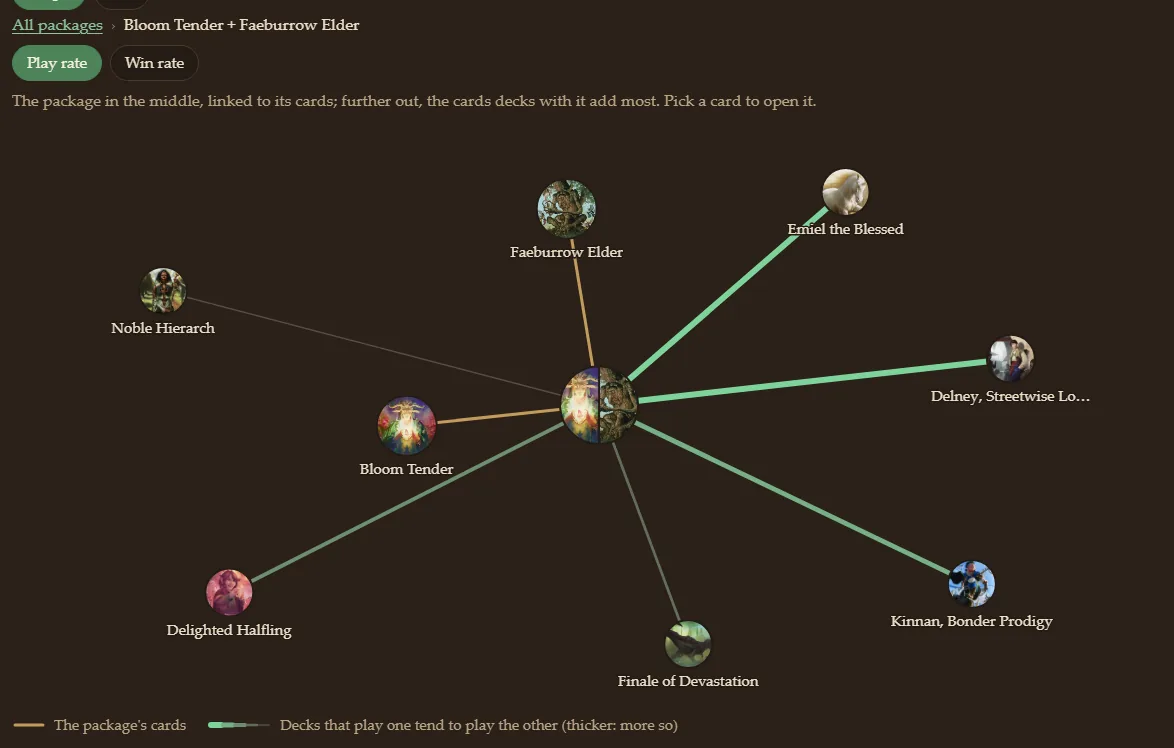
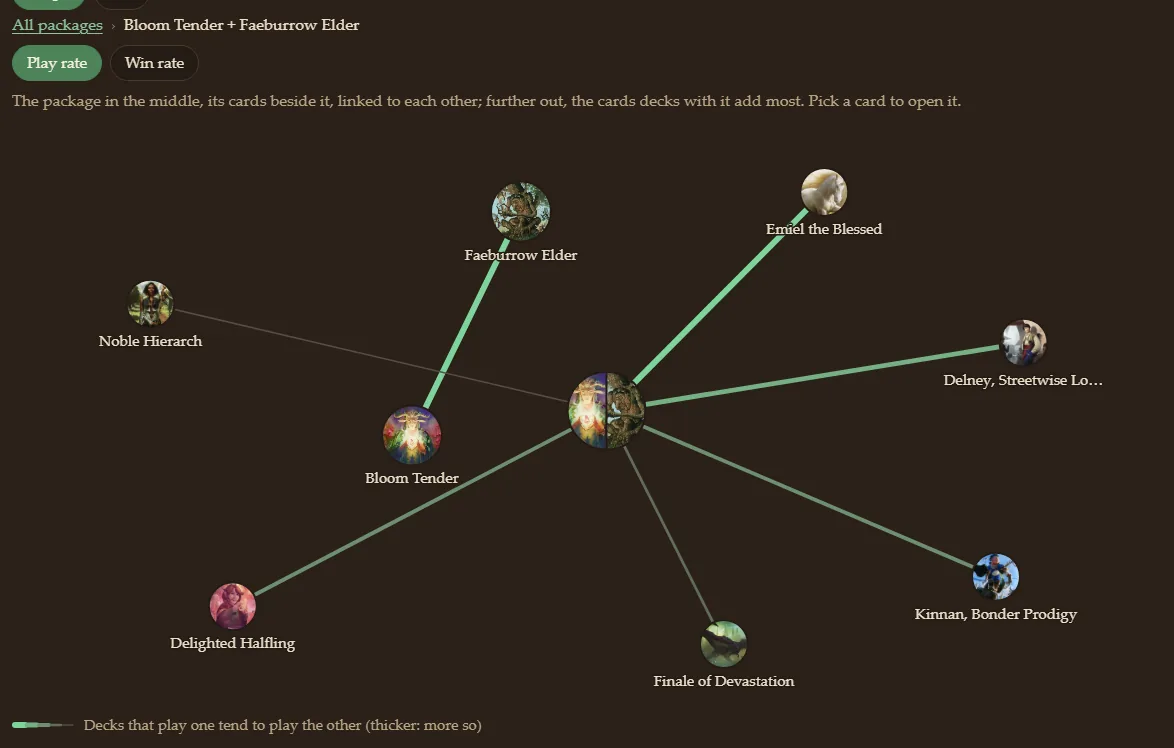
Package and combo graphs: every pair of its cards linked, however weak (the line shows how the package does: in Play rate how often decks play both, in Win rate how their tournament decks do), in place of brass lines to the middle

diff --git a/site/app.js b/site/app.js
@@ -594,7 +594,7 @@ function graphChart(box, graph, opts) {
   box.replaceChildren();
   // win: {lists, w, sets(node) -> its cards}, the tournament decks to tell win rates from (none: no Win rate)
   const ties = win?.lists ? winTies(win.lists, win.w, new Map(graph.nodes.filter(n => n.kind !== "won").map(n => [n.key, win.sets(n)])),
-    graph.edges.filter(e => e.kind !== "member").map(e => [e.a, e.b])) : null;
+    graph.edges.map(e => [e.a, e.b])) : null;
   const canWin = ties && ties.decks >= 2 * MIN_RESULT_DECKS;
   const winView = canWin && graphView === "win";
   if (winView) graph = { ...graph, nodes: graph.nodes.filter(n => n.kind !== "won"), won: [] }; // its lines say it
@@ -736,14 +736,7 @@ function graphChart(box, graph, opts) {
     hit.addEventListener("pointerleave", () => focus(null));
     return hit;
   };
-  // A package's lines to its own cards (kind "member"): all alike, under the rest, in either view
-  const members = graph.edges.filter(e => e.kind === "member");
-  for (const e of members) {
-    const node = line(byKey.get(e.a), byKey.get(e.b), { class: "tie member" });
-    if (lineTip && !winView) texts.set(e, lineTip(e, byKey.get(e.a), byKey.get(e.b)));
-    root.append(node, ...(texts.has(e) ? [hitFor(node, e)] : []));
-  }
-  const ranked = graph.edges.filter(e => e.kind !== "member").sort((p, q) => q.strength - p.strength);
+  const ranked = [...graph.edges].sort((p, q) => q.strength - p.strength);
   const together = ranked.filter(e => e.strength >= 0);
   // Win rate: each line green or red as the decks playing both its ends win more or less than the rest, the
   // clearer the darker; grey dots where too few decks play both to tell. The numbers when pointed at
@@ -779,7 +772,7 @@ function graphChart(box, graph, opts) {
     return svg;
   };
   const wins = winView ? ranked.map(pairWin) : [];
-  legendBox.replaceChildren(...[members.length && legend.member && [sample([{ class: "tie member" }], 28), legend.member], ...(winView ? [
+  legendBox.replaceChildren(...(winView ? [
     wins.some(x => x.lift !== null && x.lift >= 0) && [sample([0.6, 0.85, 1].map(o => ({ class: "tie win pos", "stroke-opacity": o }))),
       "Tournament decks with both win more than the rest (darker: clearer)"],
     wins.some(x => x.lift !== null && x.lift < 0) && [sample([0.6, 0.85, 1].map(o => ({ class: "tie win neg", "stroke-opacity": o }))),
@@ -792,7 +785,7 @@ function graphChart(box, graph, opts) {
     lifts.some(l => l < 0) && [sample([{ class: "won-link neg" }], 28), legend.less],
     graph.nodes.some(n => n.held !== undefined) && [el("span", { className: "held-sample", textContent: "2/4" }),
       "Your deck has only some of its cards (2 of 4)"],
-  ])].filter(Boolean).map(([svg, text]) => el("li", {}, svg, text)));
+  ]).filter(Boolean).map(([svg, text]) => el("li", {}, svg, text)));
   // A package's name ("A + B") is drawn under it cut short to fit: it shows in full over the graph, in place
   // of the short one, while its node is pointed at
   const full = n => n.kind === "package" && n !== hub;
@@ -998,10 +991,9 @@ function packageCharts(box, { shard, packages, members, names, lead, these, list
     graphChart(box, graph, {
       title: `${title(cards)}: its cards, and the cards decks with it add most`,
       breadcrumb: [[`All ${nouns}`, map], [title(cards), null]],
-      hint: `The ${noun} in the middle, linked to ${have ? "the cards of it your deck runs" : "its cards"}; further out, the cards `
-        + `decks with it add most${have ? " that your deck runs too" : ""}. Pick a card to open it.`,
+      hint: `The ${noun} in the middle, ${have ? "the cards of it your deck runs" : "its cards"} beside it, linked to each other; further `
+        + `out, the cards decks with it add most${have ? " that your deck runs too" : ""}. Pick a card to open it.`,
       legend: {
-        member: `The ${noun}'s cards`,
         together: "Decks that play one tend to play the other (thicker: more so)",
         apart: "Decks play one or the other, rarely both",
         more: "Tournament decks win more with it",

diff --git a/site/deck.js b/site/deck.js
@@ -1194,8 +1194,9 @@ function linkPackages(items, all, typical = null) {
 }
 
 // A package's graph, among members (numbers in shard.decks): the package (cards: card numbers) in the
-// middle; its cards close around it, each linked to it (kind "member", every graph alike); further out the
-// `extra` cards decks running it add most: whose phi with running it is
+// middle; its cards close around it, every pair of them linked by its phi (every graph alike: in the Play rate
+// and Win rate views, the line shows how the package does); further out the `extra` cards decks running it
+// add most, each linked to the package: whose phi with running it is
 // PARTNER_PHI or more, played more by the decks running it than by the others. With tournament decks
 // (lists, window w), a Won node to the right linked to the package, if its decks clearly win more or less
 // than those with none of it, and to the extra cards its tournament decks clearly win more or less with
@@ -1203,7 +1204,7 @@ function linkPackages(items, all, typical = null) {
 // nodes: [{key: "pkg" | "c<card>" | "won", kind: "package" | "core" | "extra" | "won", x, y, ...}]: the
 // package {cards, decks (members running it), name}; core {card, decks (members playing it)}; extra
 // {card, base (share of the other members playing it), with (share of those running the package),
-// decksWith, phi}; lift?, tested? and have? (card nodes) on each. edges: [{a, b, strength, kind?}]; won: [{key, lift,
+// decksWith, phi}; lift?, tested? and have? (card nodes) on each. edges: [{a, b, strength}]; won: [{key, lift,
 // tested: [tournament decks with it, without it (the package's: with none of it)]}]
 export const PACKAGE_EXTRAS = 6;
 export function packageGraph(shard, cards, members, { lists = null, w = 0, have = null, extra = PACKAGE_EXTRAS, min = MIN_PAIR_DECKS, mine = false, aspect = 1 } = {}) {
@@ -1217,7 +1218,12 @@ export function packageGraph(shard, cards, members, { lists = null, w = 0, have 
   shard.sets ??= shard.decks.map(d => new Set(d.cards));
   const plays = p => (p === undefined ? 0 : counts[p]);
   const key = card => `c${card}`;
+  // Its cards' pairs, every one (not to the package: its decks play them all)
   const edges = [];
+  for (let i = 0; i < ps.length; i++) for (let j = i + 1; j < ps.length; j++) {
+    const ab = ps[i] === undefined || ps[j] === undefined ? 0 : members.reduce((n, d) => n + (shard.sets[d].has(ps[i]) && shard.sets[d].has(ps[j])), 0);
+    edges.push({ a: key(cards[i]), b: key(cards[j]), strength: phiOf(ab, plays(ps[i]), plays(ps[j]), all) });
+  }
   const core = new Set(all0.map(c => shard.position.get(c)));
   const extras = k < MIN_PLAYING ? [] : [...counts.keys()].flatMap(q => {
     if (core.has(q) || withIt[q] < MIN_WITH) return [];
@@ -1240,8 +1246,6 @@ export function packageGraph(shard, cards, members, { lists = null, w = 0, have 
     ...(won.length ? [{ key: "won" }] : [])], edges,
   { hub: "pkg", pulls: cards.map(c => ({ key: key(c), length: 0.17 })), won: won.length ? "won" : null, wonLinks: won.map(x => x.key), aspect });
   const place = k => ({ x: at.get(k)[0], y: at.get(k)[1] });
-  // Its cards' lines, after the layout (the pulls hold them close)
-  edges.unshift(...cards.map(c => ({ a: "pkg", b: key(c), strength: 1, kind: "member" })));
   const nodes = [{ key: "pkg", kind: "package", ...place("pkg"), cards: all0, decks: k, name: all0.slice(0, 2), ...(lift.has("pkg") && { lift: lift.get("pkg"), tested: tested.get("pkg") }) },
     ...cards.map((c, i) => ({ key: key(c), kind: "core", ...place(key(c)), card: c, decks: plays(ps[i]), ...marks(c, key(c)) })),
     ...extras.map(x => ({ key: key(x.card), kind: "extra", ...place(key(x.card)), ...x, ...marks(x.card, key(x.card)) }))];

diff --git a/site/index.html b/site/index.html
@@ -695,7 +695,6 @@
     /* Win rate view: lines green or red by how the decks with both do; grey dots, too few to tell */
     :is(.synergy, .synergy-legend) .tie.few { stroke: var(--ink-faint); stroke-dasharray: 0.1 7; stroke-width: 3.5; opacity: .7; }
     .graph-views { margin: 0 0 8px; }
-    :is(.synergy, .synergy-legend) .tie.member { stroke: var(--brass); stroke-width: 3; } /* a package's line to its own cards */
     :is(.synergy, .synergy-legend) .tie.apart { stroke: var(--ink-soft); stroke-dasharray: 0.1 7; stroke-width: 4; }
     .synergy .node { cursor: pointer; outline: none; }
     .synergy .node .back { fill: var(--paper-3); }

diff --git a/README.md b/README.md
@@ -262,13 +262,14 @@ after the vector space search behind the card search)
    builds), and with tournament results a Won node joined to the packages whose decks clearly win
    more (green) or less (red) than those with none of it. Picking a package swaps in its own graph
    (`packageGraph`, "All packages › Displacer Kitten + Teferi" to go back): its cards close around it,
-   each joined to it by a brass line (every package's and combo's graph alike), and further out the cards decks running it add most (played far
+   every pair of them linked whatever its strength (every package's and combo's graph alike: the line shows
+   how the package does, in Play rate and in Win rate), and further out the cards decks running it add most (played far
    more by them than by the other decks; 4 on a phone), each tied to the Won node if decks with the
    package and it win clearly more or less than those with the package alone. Picking a card opens it.
 
    ![Derevi's package map: packages as nodes, each showing half of its two cards' art, linked when the same decks run them, the most linked in the middle; Bloom Tender + Faeburrow Elder pointed at, its name shown and 41% of these decks run all of them (1,323 decks)](docs/images/screenshot-packages.webp)
 
-   ![The Bloom Tender + Faeburrow Elder package's graph: the package in the middle, its two cards joined to it by brass lines, and around them the cards decks running it add most, such as Emiel the Blessed, Delney and Noble Hierarch](docs/images/screenshot-package.webp)
+   ![The Bloom Tender + Faeburrow Elder package's graph: the package in the middle, its two cards beside it linked to each other, and around them the cards decks running it add most, such as Emiel the Blessed, Delney and Noble Hierarch](docs/images/screenshot-package.webp)
 
    Its **combos** show the same two ways (Graph | List): the graph is the package map for combos, one
    node per combo in 1% of the decks or more (the most played of each group of combos that differ in one
